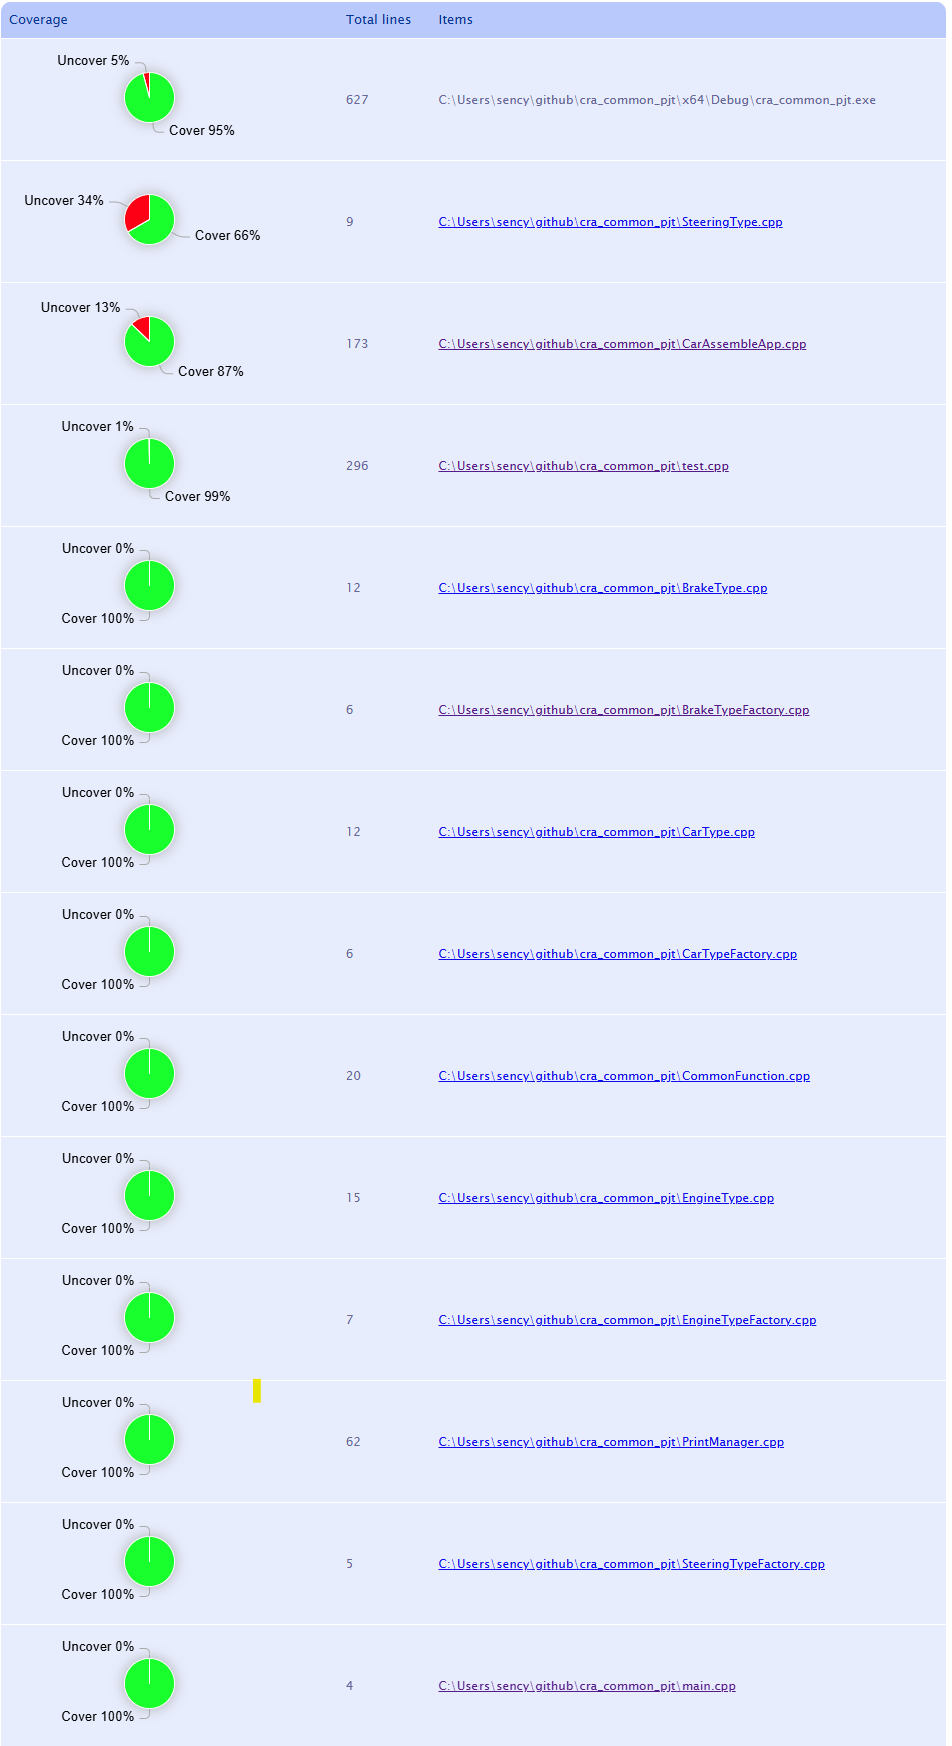
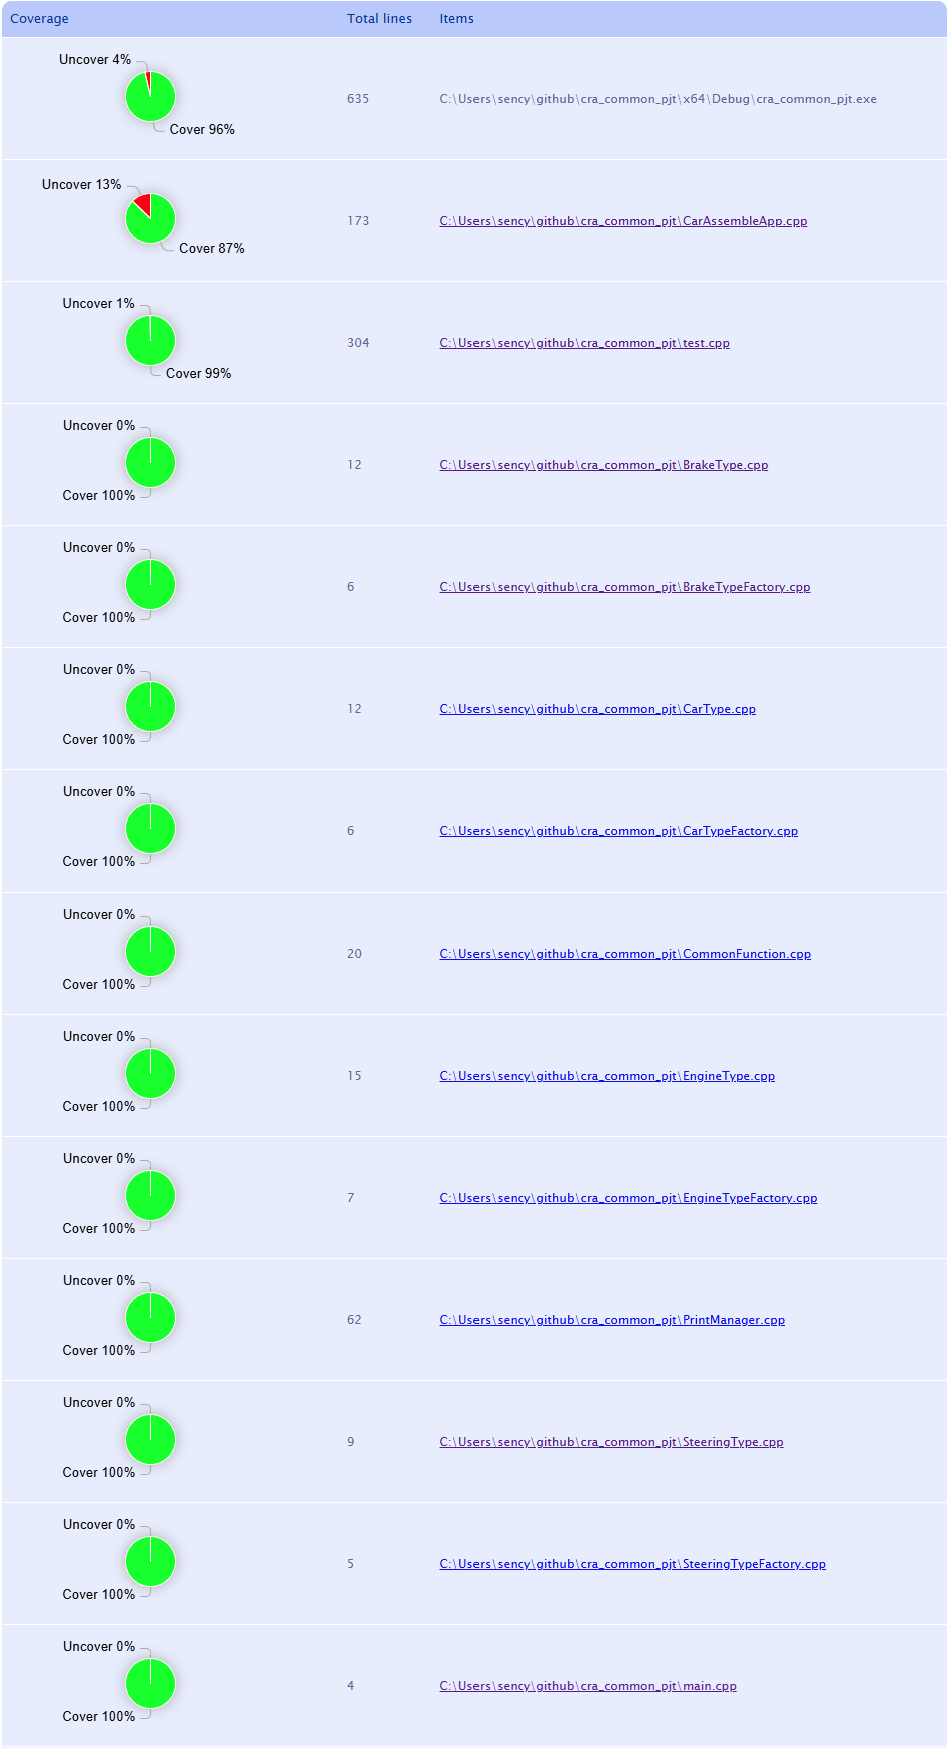
[Test] add an unit test for code coverage

diff --git a/coverage/Modules/cra_common_pjt.html b/coverage/Modules/cra_common_pjt.html
@@ -15,29 +15,18 @@
         $(document).ready(function ()
         {
             
-            new RGraph.Pie('pi_cf9731db-98e3-4239-a821-681807764eda', [601, 26])
-                .set('labels', ['Cover 95%','Uncover 5%'])
+            new RGraph.Pie('pi_3be647ee-e7da-43f0-9437-353f9bcbe571', [612, 23])
+                .set('labels', ['Cover 96%','Uncover 4%'])
                 .set('colors', ['rgb(0,255,0)','rgb(255,0,0)'])
                 .set('linewidth', 1)
                 .set('shadow', true)
-                .set('tooltips', ['cover 601 lines (95%)', 'uncover 26 lines (5%)'])
+                .set('tooltips', ['cover 612 lines (96%)', 'uncover 23 lines (4%)'])
                 .set('tooltips.event', 'onmousemove')
                 .set('labels.sticks', true)
                 .set('labels.sticks.length', 10)
                 .draw();
             
-            new RGraph.Pie('pi_63e07c58-bf77-4df2-af46-d7b4cca47782', [6, 3])
-                .set('labels', ['Cover 66%','Uncover 34%'])
-                .set('colors', ['rgb(0,255,0)','rgb(255,0,0)'])
-                .set('linewidth', 1)
-                .set('shadow', true)
-                .set('tooltips', ['cover 6 lines (66%)', 'uncover 3 lines (34%)'])
-                .set('tooltips.event', 'onmousemove')
-                .set('labels.sticks', true)
-                .set('labels.sticks.length', 10)
-                .draw();
-            
-            new RGraph.Pie('pi_a4958625-dea9-421b-91a9-9a366d75e3b2', [151, 22])
+            new RGraph.Pie('pi_021e6270-75d1-4d75-a029-2e282f17bac8', [151, 22])
                 .set('labels', ['Cover 87%','Uncover 13%'])
                 .set('colors', ['rgb(0,255,0)','rgb(255,0,0)'])
                 .set('linewidth', 1)
@@ -48,18 +37,18 @@
                 .set('labels.sticks.length', 10)
                 .draw();
             
-            new RGraph.Pie('pi_608b3421-fa89-4783-9345-94c64493acb1', [295, 1])
+            new RGraph.Pie('pi_3eabd5eb-6c1b-4890-9f23-f0483e081ae0', [303, 1])
                 .set('labels', ['Cover 99%','Uncover 1%'])
                 .set('colors', ['rgb(0,255,0)','rgb(255,0,0)'])
                 .set('linewidth', 1)
                 .set('shadow', true)
-                .set('tooltips', ['cover 295 lines (99%)', 'uncover 1 lines (1%)'])
+                .set('tooltips', ['cover 303 lines (99%)', 'uncover 1 lines (1%)'])
                 .set('tooltips.event', 'onmousemove')
                 .set('labels.sticks', true)
                 .set('labels.sticks.length', 10)
                 .draw();
             
-            new RGraph.Pie('pi_2934a3ce-c29d-489f-941a-64df52541c4d', [12, 0])
+            new RGraph.Pie('pi_af59ca00-5bbc-48cd-8633-b649cb49a2fc', [12, 0])
                 .set('labels', ['Cover 100%','Uncover 0%'])
                 .set('colors', ['rgb(0,255,0)','rgb(255,0,0)'])
                 .set('linewidth', 1)
@@ -70,7 +59,7 @@
                 .set('labels.sticks.length', 10)
                 .draw();
             
-            new RGraph.Pie('pi_cda42ffa-01c9-4163-9223-fac2d2806b59', [6, 0])
+            new RGraph.Pie('pi_5bd94f33-8e49-4ee6-b057-bca64b395a24', [6, 0])
                 .set('labels', ['Cover 100%','Uncover 0%'])
                 .set('colors', ['rgb(0,255,0)','rgb(255,0,0)'])
                 .set('linewidth', 1)
@@ -81,7 +70,7 @@
                 .set('labels.sticks.length', 10)
                 .draw();
             
-            new RGraph.Pie('pi_9bafd01c-47eb-4e58-8b39-b3e9ff725858', [12, 0])
+            new RGraph.Pie('pi_c6243126-1e81-498a-83ad-466390501e57', [12, 0])
                 .set('labels', ['Cover 100%','Uncover 0%'])
                 .set('colors', ['rgb(0,255,0)','rgb(255,0,0)'])
                 .set('linewidth', 1)
@@ -92,7 +81,7 @@
                 .set('labels.sticks.length', 10)
                 .draw();
             
-            new RGraph.Pie('pi_5fd5519d-22fd-4b59-841e-9d7c3fe90afe', [6, 0])
+            new RGraph.Pie('pi_dc0247a3-d0ed-4ee9-93c4-66140c88cc0b', [6, 0])
                 .set('labels', ['Cover 100%','Uncover 0%'])
                 .set('colors', ['rgb(0,255,0)','rgb(255,0,0)'])
                 .set('linewidth', 1)
@@ -103,7 +92,7 @@
                 .set('labels.sticks.length', 10)
                 .draw();
             
-            new RGraph.Pie('pi_55a0948d-36c5-4452-9751-27da2f561ca8', [20, 0])
+            new RGraph.Pie('pi_950d3fd8-7aa4-4d90-8d09-47fd1458f535', [20, 0])
                 .set('labels', ['Cover 100%','Uncover 0%'])
                 .set('colors', ['rgb(0,255,0)','rgb(255,0,0)'])
                 .set('linewidth', 1)
@@ -114,7 +103,7 @@
                 .set('labels.sticks.length', 10)
                 .draw();
             
-            new RGraph.Pie('pi_ba61e07e-cb62-43d9-b8cd-e69c0521f4e9', [15, 0])
+            new RGraph.Pie('pi_5124b707-f965-4f48-9f2f-f3a03b04791a', [15, 0])
                 .set('labels', ['Cover 100%','Uncover 0%'])
                 .set('colors', ['rgb(0,255,0)','rgb(255,0,0)'])
                 .set('linewidth', 1)
@@ -125,7 +114,7 @@
                 .set('labels.sticks.length', 10)
                 .draw();
             
-            new RGraph.Pie('pi_7479408c-0fbb-4e05-bec1-9be7ca78fe28', [7, 0])
+            new RGraph.Pie('pi_081fce28-c836-4011-958f-2d2f081879d8', [7, 0])
                 .set('labels', ['Cover 100%','Uncover 0%'])
                 .set('colors', ['rgb(0,255,0)','rgb(255,0,0)'])
                 .set('linewidth', 1)
@@ -136,7 +125,7 @@
                 .set('labels.sticks.length', 10)
                 .draw();
             
-            new RGraph.Pie('pi_aef8e4c7-ce76-479b-b486-05cca10f1647', [62, 0])
+            new RGraph.Pie('pi_077150e5-94ae-4cb3-8ca2-53c8f60b3361', [62, 0])
                 .set('labels', ['Cover 100%','Uncover 0%'])
                 .set('colors', ['rgb(0,255,0)','rgb(255,0,0)'])
                 .set('linewidth', 1)
@@ -147,7 +136,18 @@
                 .set('labels.sticks.length', 10)
                 .draw();
             
-            new RGraph.Pie('pi_e86647bb-ae8c-4dcd-b5c7-3fdf1eb4481a', [5, 0])
+            new RGraph.Pie('pi_c2ae9b9c-569f-438a-b50e-3930435c0af3', [9, 0])
+                .set('labels', ['Cover 100%','Uncover 0%'])
+                .set('colors', ['rgb(0,255,0)','rgb(255,0,0)'])
+                .set('linewidth', 1)
+                .set('shadow', true)
+                .set('tooltips', ['cover 9 lines (100%)', 'uncover 0 lines (0%)'])
+                .set('tooltips.event', 'onmousemove')
+                .set('labels.sticks', true)
+                .set('labels.sticks.length', 10)
+                .draw();
+            
+            new RGraph.Pie('pi_5732eb66-4edb-46d1-95ef-f488e1396854', [5, 0])
                 .set('labels', ['Cover 100%','Uncover 0%'])
                 .set('colors', ['rgb(0,255,0)','rgb(255,0,0)'])
                 .set('linewidth', 1)
@@ -158,7 +158,7 @@
                 .set('labels.sticks.length', 10)
                 .draw();
             
-            new RGraph.Pie('pi_43f49941-03ae-491f-b237-335907522887', [4, 0])
+            new RGraph.Pie('pi_3b271b6d-4ddb-4810-8650-0730bf3c8798', [4, 0])
                 .set('labels', ['Cover 100%','Uncover 0%'])
                 .set('colors', ['rgb(0,255,0)','rgb(255,0,0)'])
                 .set('linewidth', 1)
@@ -190,9 +190,9 @@
                 
                 <tr>
                     <td>
-            <canvas id="pi_cf9731db-98e3-4239-a821-681807764eda" width="280" height="100">Cover 95%</canvas>
+            <canvas id="pi_3be647ee-e7da-43f0-9437-353f9bcbe571" width="280" height="100">Cover 96%</canvas>
                     </td>            
-                    <td>627</td>
+                    <td>635</td>
                     <td>            
                       
                       C:\Users\sency\github\cra_common_pjt\x64\Debug\cra_common_pjt.exe
@@ -202,19 +202,7 @@
                 
                 <tr>
                     <td>
-            <canvas id="pi_63e07c58-bf77-4df2-af46-d7b4cca47782" width="280" height="100">Cover 66%</canvas>
-                    </td>            
-                    <td>9</td>
-                    <td>            
-                       <a href="cra_common_pjt/SteeringType.cpp.html">C:\Users\sency\github\cra_common_pjt\SteeringType.cpp</a> 
-                      
-                      
-                    </td>
-                </tr>        
-                
-                <tr>
-                    <td>
-            <canvas id="pi_a4958625-dea9-421b-91a9-9a366d75e3b2" width="280" height="100">Cover 87%</canvas>
+            <canvas id="pi_021e6270-75d1-4d75-a029-2e282f17bac8" width="280" height="100">Cover 87%</canvas>
                     </td>            
                     <td>173</td>
                     <td>            
@@ -226,9 +214,9 @@
                 
                 <tr>
                     <td>
-            <canvas id="pi_608b3421-fa89-4783-9345-94c64493acb1" width="280" height="100">Cover 99%</canvas>
+            <canvas id="pi_3eabd5eb-6c1b-4890-9f23-f0483e081ae0" width="280" height="100">Cover 99%</canvas>
                     </td>            
-                    <td>296</td>
+                    <td>304</td>
                     <td>            
                        <a href="cra_common_pjt/test.cpp.html">C:\Users\sency\github\cra_common_pjt\test.cpp</a> 
                       
@@ -238,7 +226,7 @@
                 
                 <tr>
                     <td>
-            <canvas id="pi_2934a3ce-c29d-489f-941a-64df52541c4d" width="280" height="100">Cover 100%</canvas>
+            <canvas id="pi_af59ca00-5bbc-48cd-8633-b649cb49a2fc" width="280" height="100">Cover 100%</canvas>
                     </td>            
                     <td>12</td>
                     <td>            
@@ -250,7 +238,7 @@
                 
                 <tr>
                     <td>
-            <canvas id="pi_cda42ffa-01c9-4163-9223-fac2d2806b59" width="280" height="100">Cover 100%</canvas>
+            <canvas id="pi_5bd94f33-8e49-4ee6-b057-bca64b395a24" width="280" height="100">Cover 100%</canvas>
                     </td>            
                     <td>6</td>
                     <td>            
@@ -262,7 +250,7 @@
                 
                 <tr>
                     <td>
-            <canvas id="pi_9bafd01c-47eb-4e58-8b39-b3e9ff725858" width="280" height="100">Cover 100%</canvas>
+            <canvas id="pi_c6243126-1e81-498a-83ad-466390501e57" width="280" height="100">Cover 100%</canvas>
                     </td>            
                     <td>12</td>
                     <td>            
@@ -274,7 +262,7 @@
                 
                 <tr>
                     <td>
-            <canvas id="pi_5fd5519d-22fd-4b59-841e-9d7c3fe90afe" width="280" height="100">Cover 100%</canvas>
+            <canvas id="pi_dc0247a3-d0ed-4ee9-93c4-66140c88cc0b" width="280" height="100">Cover 100%</canvas>
                     </td>            
                     <td>6</td>
                     <td>            
@@ -286,7 +274,7 @@
                 
                 <tr>
                     <td>
-            <canvas id="pi_55a0948d-36c5-4452-9751-27da2f561ca8" width="280" height="100">Cover 100%</canvas>
+            <canvas id="pi_950d3fd8-7aa4-4d90-8d09-47fd1458f535" width="280" height="100">Cover 100%</canvas>
                     </td>            
                     <td>20</td>
                     <td>            
@@ -298,7 +286,7 @@
                 
                 <tr>
                     <td>
-            <canvas id="pi_ba61e07e-cb62-43d9-b8cd-e69c0521f4e9" width="280" height="100">Cover 100%</canvas>
+            <canvas id="pi_5124b707-f965-4f48-9f2f-f3a03b04791a" width="280" height="100">Cover 100%</canvas>
                     </td>            
                     <td>15</td>
                     <td>            
@@ -310,7 +298,7 @@
                 
                 <tr>
                     <td>
-            <canvas id="pi_7479408c-0fbb-4e05-bec1-9be7ca78fe28" width="280" height="100">Cover 100%</canvas>
+            <canvas id="pi_081fce28-c836-4011-958f-2d2f081879d8" width="280" height="100">Cover 100%</canvas>
                     </td>            
                     <td>7</td>
                     <td>            
@@ -322,7 +310,7 @@
                 
                 <tr>
                     <td>
-            <canvas id="pi_aef8e4c7-ce76-479b-b486-05cca10f1647" width="280" height="100">Cover 100%</canvas>
+            <canvas id="pi_077150e5-94ae-4cb3-8ca2-53c8f60b3361" width="280" height="100">Cover 100%</canvas>
                     </td>            
                     <td>62</td>
                     <td>            
@@ -334,7 +322,19 @@
                 
                 <tr>
                     <td>
-            <canvas id="pi_e86647bb-ae8c-4dcd-b5c7-3fdf1eb4481a" width="280" height="100">Cover 100%</canvas>
+            <canvas id="pi_c2ae9b9c-569f-438a-b50e-3930435c0af3" width="280" height="100">Cover 100%</canvas>
+                    </td>            
+                    <td>9</td>
+                    <td>            
+                       <a href="cra_common_pjt/SteeringType.cpp.html">C:\Users\sency\github\cra_common_pjt\SteeringType.cpp</a> 
+                      
+                      
+                    </td>
+                </tr>        
+                
+                <tr>
+                    <td>
+            <canvas id="pi_5732eb66-4edb-46d1-95ef-f488e1396854" width="280" height="100">Cover 100%</canvas>
                     </td>            
                     <td>5</td>
                     <td>            
@@ -346,7 +346,7 @@
                 
                 <tr>
                     <td>
-            <canvas id="pi_43f49941-03ae-491f-b237-335907522887" width="280" height="100">Cover 100%</canvas>
+            <canvas id="pi_3b271b6d-4ddb-4810-8650-0730bf3c8798" width="280" height="100">Cover 100%</canvas>
                     </td>            
                     <td>4</td>
                     <td>            

diff --git a/coverage/index.html b/coverage/index.html
@@ -15,23 +15,23 @@
         $(document).ready(function ()
         {
             
-            new RGraph.Pie('pi_9f11e61b-f205-4c67-a031-f73212f9cd00', [601, 26])
-                .set('labels', ['Cover 95%','Uncover 5%'])
+            new RGraph.Pie('pi_4447ff2c-00a5-4b2a-85b3-f080803199c4', [612, 23])
+                .set('labels', ['Cover 96%','Uncover 4%'])
                 .set('colors', ['rgb(0,255,0)','rgb(255,0,0)'])
                 .set('linewidth', 1)
                 .set('shadow', true)
-                .set('tooltips', ['cover 601 lines (95%)', 'uncover 26 lines (5%)'])
+                .set('tooltips', ['cover 612 lines (96%)', 'uncover 23 lines (4%)'])
                 .set('tooltips.event', 'onmousemove')
                 .set('labels.sticks', true)
                 .set('labels.sticks.length', 10)
                 .draw();
             
-            new RGraph.Pie('pi_230de5cd-5370-4797-b8e1-79b365e2082c', [601, 26])
-                .set('labels', ['Cover 95%','Uncover 5%'])
+            new RGraph.Pie('pi_7fbf8da1-e57f-450f-b3ba-e38a7230d3e9', [612, 23])
+                .set('labels', ['Cover 96%','Uncover 4%'])
                 .set('colors', ['rgb(0,255,0)','rgb(255,0,0)'])
                 .set('linewidth', 1)
                 .set('shadow', true)
-                .set('tooltips', ['cover 601 lines (95%)', 'uncover 26 lines (5%)'])
+                .set('tooltips', ['cover 612 lines (96%)', 'uncover 23 lines (4%)'])
                 .set('tooltips.event', 'onmousemove')
                 .set('labels.sticks', true)
                 .set('labels.sticks.length', 10)
@@ -58,9 +58,9 @@
                 
                 <tr>
                     <td>
-            <canvas id="pi_9f11e61b-f205-4c67-a031-f73212f9cd00" width="280" height="100">Cover 95%</canvas>
+            <canvas id="pi_4447ff2c-00a5-4b2a-85b3-f080803199c4" width="280" height="100">Cover 96%</canvas>
                     </td>            
-                    <td>627</td>
+                    <td>635</td>
                     <td>            
                       
                       cra_common_pjt.exe
@@ -70,9 +70,9 @@
                 
                 <tr>
                     <td>
-            <canvas id="pi_230de5cd-5370-4797-b8e1-79b365e2082c" width="280" height="100">Cover 95%</canvas>
+            <canvas id="pi_7fbf8da1-e57f-450f-b3ba-e38a7230d3e9" width="280" height="100">Cover 96%</canvas>
                     </td>            
-                    <td>627</td>
+                    <td>635</td>
                     <td>            
                        <a href="Modules/cra_common_pjt.html">C:\Users\sency\github\cra_common_pjt\x64\Debug\cra_common_pjt.exe</a> 
                       

diff --git a/coverage/Modules/cra_common_pjt/test.cpp.html b/coverage/Modules/cra_common_pjt/test.cpp.html
@@ -180,6 +180,15 @@ TEST_F(CarAssembleAppTestFixture, NotWorkingBoschBrakeAndSteering) {
     std::string actual = ::testing::internal::GetCapturedStdout();
     EXPECT_EQ(actual, "ìëì°¨ê° ëìëì§ ììµëë¤\n");
 }
+TEST_F(CarAssembleAppTestFixture, NotWorkingUnknownSteeringType) {
+    SetSettings(NONE_SETTING_TYPE, NONE_SETTING_TYPE, eBOSCHBrake, NONE_SETTING_TYPE);</span>
+
+<span style = "background-color:#dfd">    ::testing::internal::CaptureStdout();
+    app.RunProducedCar();
+    std::string actual = ::testing::internal::GetCapturedStdout();
+    printf("[%s]\n", actual.c_str());
+    EXPECT_EQ(actual, "ìëì°¨ê° ëìëì§ ììµëë¤\n");
+}
 TEST_F(CarAssembleAppTestFixture, NotWorkingBorkenEngine) {
     SetSettings(NONE_SETTING_TYPE, eBrokenEngine, NONE_SETTING_TYPE, NONE_SETTING_TYPE);</span>
 

diff --git a/coverage/Modules/cra_common_pjt/SteeringType.cpp.html b/coverage/Modules/cra_common_pjt/SteeringType.cpp.html
@@ -19,7 +19,7 @@
     return "MOBIS";
 }</span>
 
-<span style = "background-color:#fdd">const std::string UnknownSteeringType::GetName() const {
+<span style = "background-color:#dfd">const std::string UnknownSteeringType::GetName() const {
     return "";
 }</span></pre>
         <hr />

diff --git a/test.cpp b/test.cpp
@@ -169,6 +169,15 @@ TEST_F(CarAssembleAppTestFixture, NotWorkingBoschBrakeAndSteering) {
     std::string actual = ::testing::internal::GetCapturedStdout();
     EXPECT_EQ(actual, "자동차가 동작되지 않습니다\n");
 }
+TEST_F(CarAssembleAppTestFixture, NotWorkingUnknownSteeringType) {
+    SetSettings(NONE_SETTING_TYPE, NONE_SETTING_TYPE, eBOSCHBrake, NONE_SETTING_TYPE);
+
+    ::testing::internal::CaptureStdout();
+    app.RunProducedCar();
+    std::string actual = ::testing::internal::GetCapturedStdout();
+    printf("[%s]\n", actual.c_str());
+    EXPECT_EQ(actual, "자동차가 동작되지 않습니다\n");
+}
 TEST_F(CarAssembleAppTestFixture, NotWorkingBorkenEngine) {
     SetSettings(NONE_SETTING_TYPE, eBrokenEngine, NONE_SETTING_TYPE, NONE_SETTING_TYPE);
 
